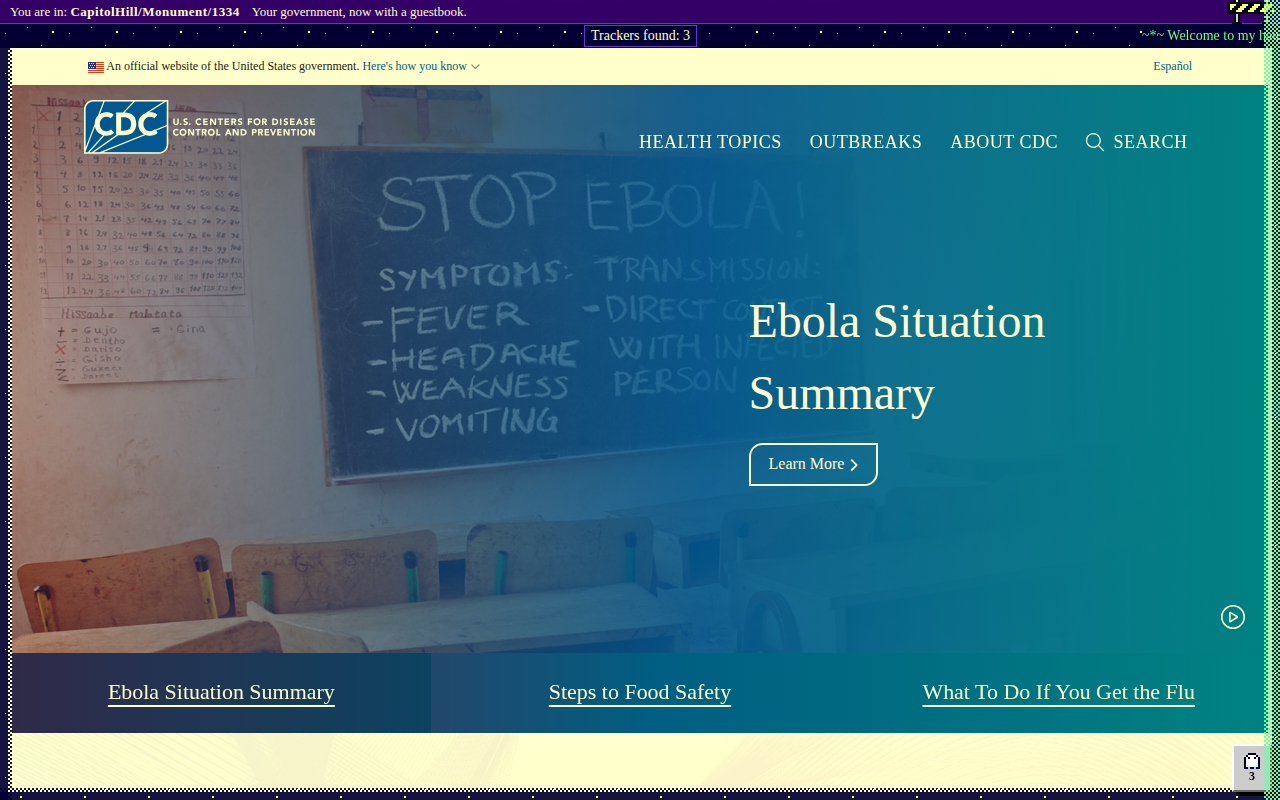
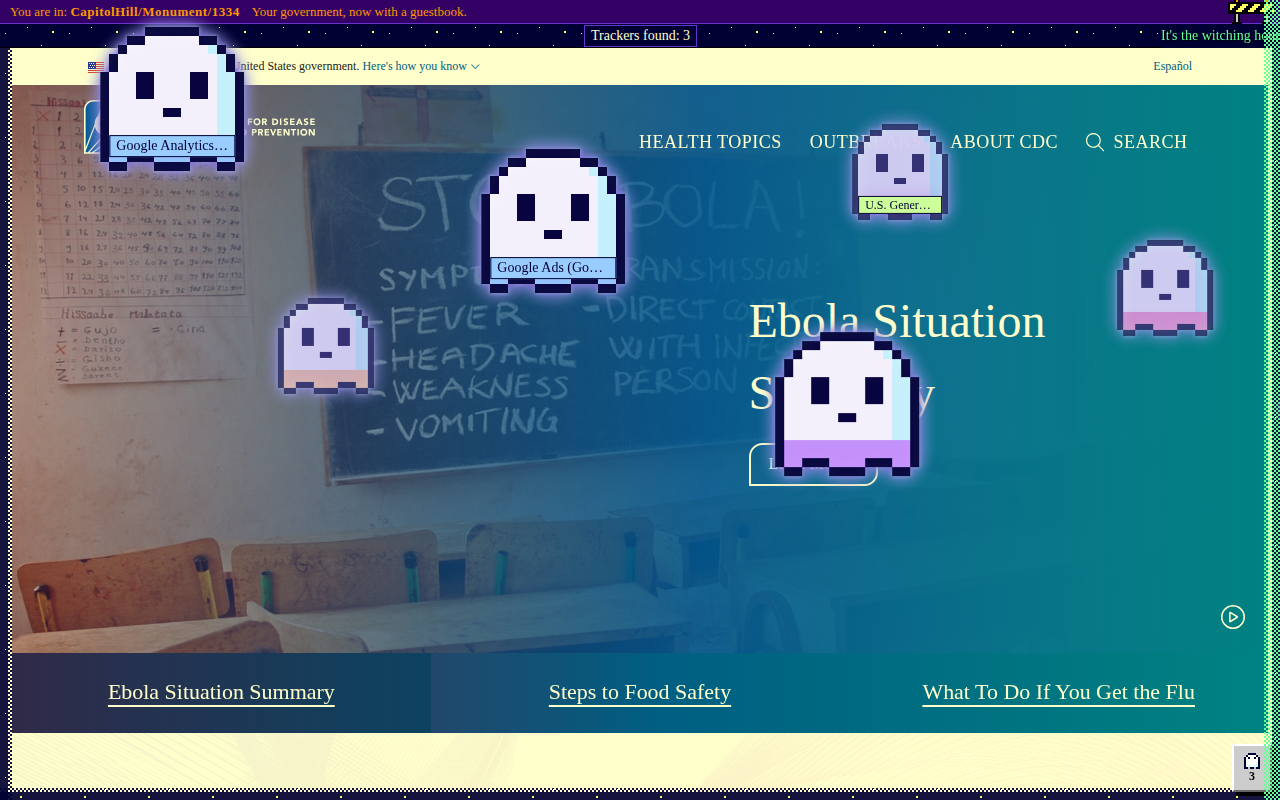
real-site stills show the parade ghosts

diff --git a/scripts/real-site.pw.ts b/scripts/real-site.pw.ts
@@ -97,24 +97,30 @@ async function capture(slug: string, url: string, gif: boolean) {
       };
     });
 
-    // The 3000ms moment and the caption's hold (to 3600), one frame every 1/6s of page time. Each frame notes where the caption is.
-    const captionAt: { k: number; mid: number }[] = [];
+    // The 3000ms moment and the caption's hold (to 3600), one frame every 1/6s of page time. Each frame notes
+    // where the caption is and which named parade ghosts are wholly on screen.
+    const captionAt: { k: number; mid: number; ghosts: string[] }[] = [];
     for (let k = 1; k <= 3.5 * FPS; k++) {
       await page.waitForTimeout(Math.max(0, start + (k * 1000) / FPS / SLOW - Date.now()));
       const at = n;
       await frame();
-      const box = await inShadow(function () {
+      const seen = await inShadow(function (view: { width: number; height: number }) {
+        const inView = (r: DOMRect) => r.left >= 0 && r.right <= view.width && r.top >= 0 && r.bottom <= view.height;
         const r = this.querySelector("#fx .found")?.getBoundingClientRect();
-        return r ? { top: r.top, bottom: r.bottom } : null;
-      });
-      if (box && box.top >= 0 && box.bottom <= VIEW.height) captionAt.push({ k: at, mid: (box.top + box.bottom) / 2 });
+        const ghosts = [...this.querySelectorAll<HTMLElement>("#fx .spirit[data-company]")].filter((s) => inView(s.getBoundingClientRect())).map((s) => s.dataset.company!);
+        return r && inView(r) ? { mid: (r.top + r.bottom) / 2, ghosts } : null;
+      }, VIEW);
+      if (seen) captionAt.push({ k: at, ...seen });
     }
     await cdp.send("Animation.setPlaybackRate", { playbackRate: 1 });
 
-    // The still: the last frame with the caption, at rest in the marquee band (off the page's text).
+    // The still: the caption in the marquee band (off the page's text) with as many named tracker ghosts
+    // in the frame as the parade gives it (the latest such frame, where the caption has come furthest).
     expect(captionAt.length).toBeGreaterThan(0);
-    const still = captionAt.at(-1)!;
+    const most = Math.max(...captionAt.map((c) => c.ghosts.length));
+    const still = captionAt.filter((c) => c.ghosts.length === most).at(-1)!;
     expect(still.mid).toBeLessThan(VIEW.height / 3);
+    expect(still.ghosts.length).toBeGreaterThanOrEqual(Math.min(3, parade.companies.length));
     copyFileSync(name(still.k), `docs/real-site-caption-${slug}.png`);
     if (gif) {
       // Let the moment play out (no finite animation left but the marquee), then hold the settled page
@@ -169,7 +175,7 @@ async function capture(slug: string, url: string, gif: boolean) {
 
     const found = Number(/^Trackers found: (\d+)$/.exec(parade.caption)?.[1]);
     expect(found).toBeGreaterThan(0);
-    return { trackersFound: found, parade: parade.companies };
+    return { trackersFound: found, parade: parade.companies, stillShows: still.ghosts };
   } finally {
     await context.close();
   }

diff --git a/test/real-site.test.ts b/test/real-site.test.ts
@@ -13,7 +13,7 @@ const demo = read("docs/demo-script.md");
 const devpost = read("docs/devpost.md");
 const scripts = (JSON.parse(read("package.json")) as { scripts: Record<string, string> }).scripts;
 
-type Page = { page: string; still: string; gif?: string; trackersFound: number; parade: string[] };
+type Page = { page: string; still: string; gif?: string; trackersFound: number; parade: string[]; stillShows?: string[] };
 const record = (read("docs/real-site.json") ? JSON.parse(read("docs/real-site.json")) : { pages: [] }) as { captured?: string; pages: Page[] };
 const GIF = "docs/real-site-haunt.gif";
 const host = (url: string) => new URL(url).hostname.replace(/^www\./, "");
@@ -34,6 +34,15 @@ describe("real-site proof", () => {
       expect(p.parade.length).toBeLessThanOrEqual(Math.min(6, p.trackersFound));
     }
     expect(record.pages.filter((p) => p.gif === GIF)).toHaveLength(1);
+  });
+
+  test("each caption still shows the named tracker ghosts of its parade, not only the caption", () => {
+    for (const p of record.pages) {
+      const shows = p.stillShows ?? [];
+      expect({ page: p.page, enough: shows.length >= Math.min(3, p.parade.length) }).toEqual({ page: p.page, enough: true });
+      for (const c of shows) expect(p.parade).toContain(c);
+    }
+    expect(read("scripts/real-site.pw.ts")).toContain("stillShows");
   });
 
   test("the GIF is a 560px GIF under 2 MB, and each caption still is a 1280px PNG under 1 MB", () => {

diff --git a/README.md b/README.md
@@ -1,12 +1,12 @@
 # Haunted GeoCities
 
-![The haunt on the live National Park Service home page: the page dies like an old CRT, the parade carries the four tracker companies the page loaded (Google Analytics, U.S. General Services Administration, Crazy Egg and Google Ads) with the caption Trackers found: 4, and the page settles in its 1998 costume with the graveyard strip and the HUD](docs/real-site-haunt.gif)
+![The haunt on the live National Park Service home page: the page dies like an old CRT, the parade carries the four tracker companies the page loaded (Google Analytics, U.S. General Services Administration, Crazy Egg and Google Ads) with the caption Trackers found: 4, and the page settles in its 1998 costume with the ghost count in the bottom-right corner](docs/real-site-haunt.gif)
 
 A pre-period prototype exists outside the entry and was rebuilt from lessons, not copied; Tracker Radar ingest output is the only reused data.
 
 A Chrome extension (Manifest V3) that turns the page you are on into a 1998 GeoCities crypt. Click **Haunt** and the page itself turns 1998: Times New Roman text, Comic Sans headings, blue underlined links and a parchment column in a ridged guestbook frame, under a night sky, a heads-up display and a marquee. Click **Un-haunt** and the page is put back as it was. It is an entry in Kiroween 2026, Costume Contest.
 
-The GIF at the top is a real page, not a fixture: the shipping build on the live National Park Service home page (`https://www.nps.gov/index.htm`) over the real network, made on 2026-11-19 by `bun run docs:realsite`. Playwright cannot click the toolbar icon, so the run gives the extension a host permission for that one site in place of the click, then presses **Haunt page** in the popup (the run answers no to the site prompt, so it haunts that one page). The parade carries the trackers the page really loaded, and the caption reads `Trackers found: 4` ([still](docs/real-site-caption-nps.png)). The same run on the CDC home page (`https://www.cdc.gov/`) shows `Trackers found: 3` ([still](docs/real-site-caption-cdc.png)). Both are US government pages, public-domain works, and the extension has no link to either agency. The record of the run is [`docs/real-site.json`](docs/real-site.json). Live pages change, so this run is a docs tool and not one of the checks. Every other shot and GIF in this README, and the opening of the demo video, uses the fixture pages in `fixtures/`, small made-up sites served locally (with real tracker domains pointed at the local server), not real sites.
+The GIF at the top is a real page, not a fixture: the shipping build on the live National Park Service home page (`https://www.nps.gov/index.htm`) over the real network, made on 2026-11-26 by `bun run docs:realsite`. Playwright cannot click the toolbar icon, so the run gives the extension a host permission for that one site in place of the click, then presses **Haunt page** in the popup (the run answers no to the site prompt, so it haunts that one page). The parade carries the trackers the page really loaded, and the caption reads `Trackers found: 4` while their four name tags are still on screen ([still](docs/real-site-caption-nps.png)). The same run on the CDC home page (`https://www.cdc.gov/`) shows `Trackers found: 3` ([still](docs/real-site-caption-cdc.png)). Both are US government pages, public-domain works, and the extension has no link to either agency. The record of the run is [`docs/real-site.json`](docs/real-site.json). Live pages change, so this run is a docs tool and not one of the checks. Every other shot and GIF in this README, and the opening of the demo video, uses the fixture pages in `fixtures/`, small made-up sites served locally (with real tracker domains pointed at the local server), not real sites.
 
 ![A haunted page: the article in Times New Roman on a parchment column inside a ridged guestbook frame, a tracker ghost and two vampires in the starfield, the HUD in the footer](docs/screenshots/haunted.png)
 
